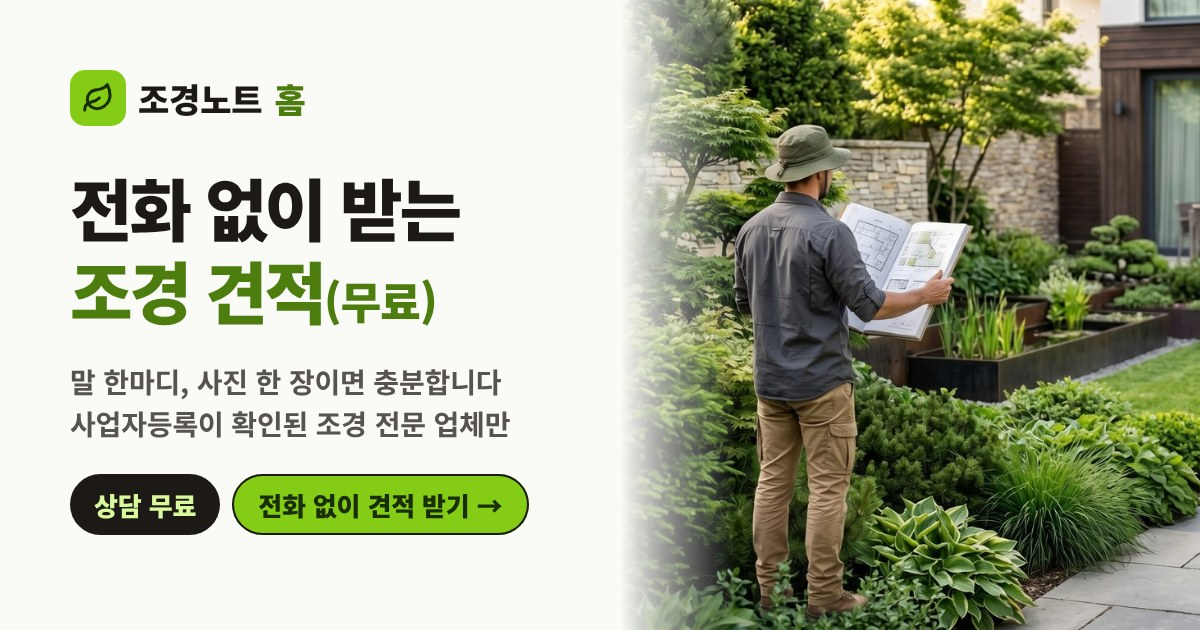
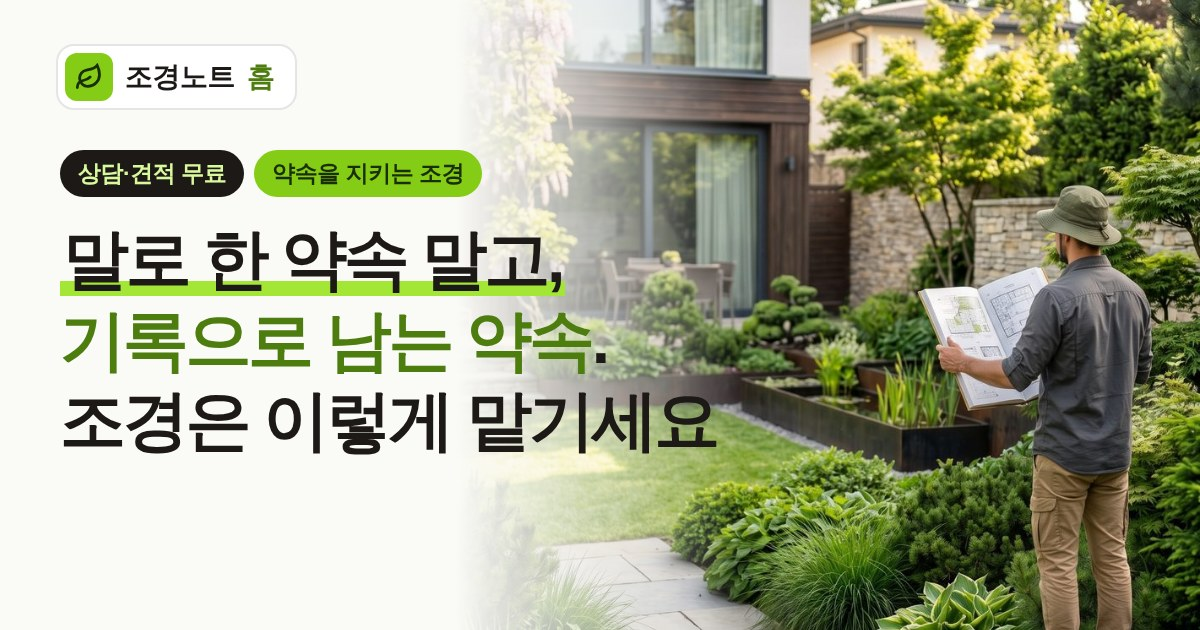
Add files via upload

diff --git a/home.html b/home.html
@@ -3,18 +3,18 @@
 <head>
 <meta charset="UTF-8">
 <meta name="viewport" content="width=device-width, initial-scale=1.0, viewport-fit=cover">
-<title>조경노트 홈 · 전화, 방문 없이도 간편한 조경 견적 (상담 무료)</title>
-<meta name="description" content="전화하지 않고, 만나지 않고도 조경 견적과 상담(무료)을 원스톱으로. 말 한마디, 사진 한 장이면 충분합니다. 사업자등록이 확인된 조경 전문 업체만 연결해 드립니다. 소나무 전지·가지치기·잔디·정원 공사 등.">
+<title>조경노트 홈 · 약속을 지키는 조경 견적·상담 (무료)</title>
+<meta name="description" content="말로 한 약속 말고, 기록으로 남는 약속. 견적서·작업 날짜·작업 사진이 기록으로 남는 조경 전문 업체를 연결해 드려요. 말 한마디, 사진 한 장이면 조경 견적과 상담(무료)을 받을 수 있어요.">
 <meta property="og:type" content="website">
 <meta property="og:site_name" content="조경노트 홈">
-<meta property="og:title" content="조경노트 홈 · 전화, 방문 없이도 간편한 조경 견적 (상담 무료)">
-<meta property="og:description" content="말 한마디, 사진 한 장이면 충분합니다. 사업자등록이 확인된 조경 전문 업체만 연결해 드립니다. 상담 무료.">
+<meta property="og:title" content="조경노트 홈 · 약속을 지키는 조경 견적·상담 (무료)">
+<meta property="og:description" content="견적서도, 작업 날짜도, 작업 사진도 기록으로 남는 조경 업체만 연결해요. 사업자 확인 업체 한 곳만, 견적서 먼저, 상담 무료.">
 <meta property="og:url" content="https://www.jogyeongnote.com/home.html">
-<meta property="og:image" content="https://www.jogyeongnote.com/home-og.jpg?v=4">
+<meta property="og:image" content="https://www.jogyeongnote.com/home-og.jpg?v=5">
 <meta property="og:image:width" content="1200">
 <meta property="og:image:height" content="630">
 <meta name="twitter:card" content="summary_large_image">
-<meta name="twitter:image" content="https://www.jogyeongnote.com/home-og.jpg?v=4">
+<meta name="twitter:image" content="https://www.jogyeongnote.com/home-og.jpg?v=5">
 <meta name="theme-color" content="#FAFAF7">
 <link rel="canonical" href="https://www.jogyeongnote.com/home.html"><!-- 🔎 [패치 #112] 네이버 검색: 조경노트 홈 대표 주소 -->
 <meta name="robots" content="index,follow">
